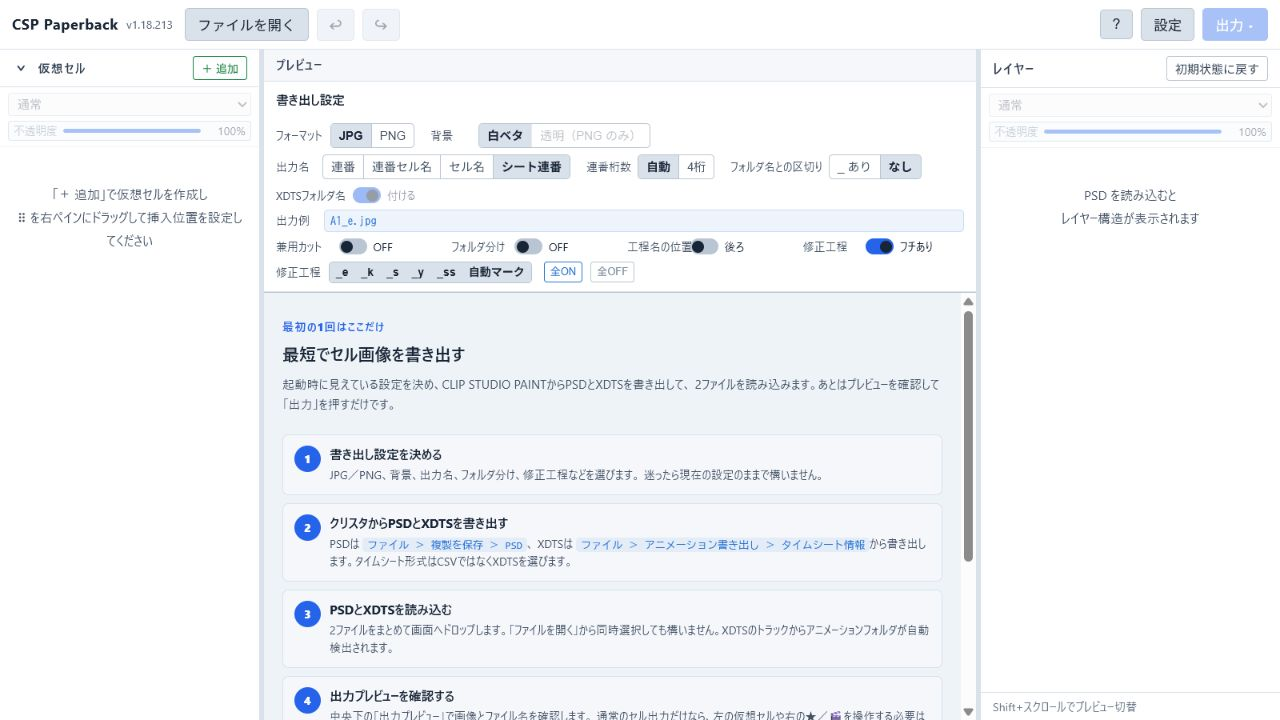
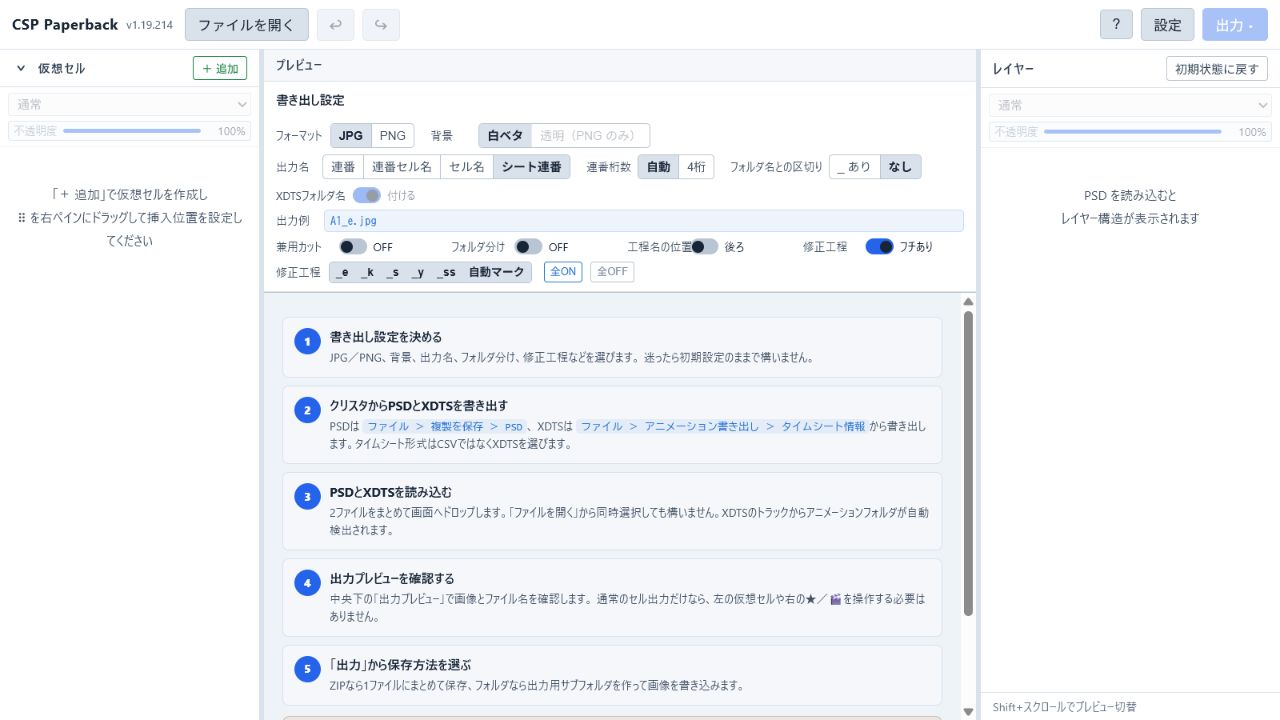
Simplify and highlight help guidance

Changed region(s): [[0.2188, 0.4278, 0.75, 1.0], [0.75, 0.7639, 0.7812, 0.8556]]

diff --git a/src/components/help/QuickStartGuide.module.css b/src/components/help/QuickStartGuide.module.css
@@ -11,43 +11,6 @@
   margin: 0 auto;
 }
 
-.hero {
-  margin-bottom: 1.25rem;
-}
-
-.eyebrow {
-  margin-bottom: 0.35rem;
-  color: var(--color-accent);
-  font-size: 0.72rem;
-  font-weight: 800;
-  letter-spacing: 0.08em;
-  text-transform: uppercase;
-}
-
-.title {
-  margin: 0;
-  color: var(--color-text-primary);
-  font-size: 1.55rem;
-  line-height: 1.3;
-}
-
-.startup .title {
-  font-size: 1.05rem;
-}
-
-.lead {
-  max-width: 46rem;
-  margin: 0.6rem 0 0;
-  color: var(--color-text-muted);
-  font-size: 0.9rem;
-  line-height: 1.75;
-}
-
-.startup .lead {
-  font-size: 0.76rem;
-  line-height: 1.65;
-}
-
 .route {
   display: grid;
   gap: 0.75rem;
@@ -210,14 +173,6 @@
 @media (pointer: coarse) and (max-width: 1024px) {
   .help {
     max-width: none;
-  }
-
-  .title {
-    font-size: 1.25rem;
-  }
-
-  .lead {
-    font-size: 0.84rem;
   }
 
   .step {

diff --git a/src/components/help/HelpFigure.tsx b/src/components/help/HelpFigure.tsx
@@ -1,13 +1,28 @@
 import styles from '../HelpDialog.module.css'
 
+interface HelpHighlight {
+  label: string
+  x: number
+  y: number
+  width: number
+  height: number
+}
+
 interface HelpFigureProps {
   src: string
   alt: string
   caption: string
   compact?: boolean
+  highlights: HelpHighlight[]
 }
 
-export function HelpFigure({ src, alt, caption, compact = false }: HelpFigureProps) {
+export function HelpFigure({
+  src,
+  alt,
+  caption,
+  compact = false,
+  highlights,
+}: HelpFigureProps) {
   return (
     <figure className={`${styles.figure} ${compact ? styles.figureCompact : ''}`}>
       <div className={styles.figureFrame}>
@@ -17,6 +32,22 @@ export function HelpFigure({ src, alt, caption, compact = false }: HelpFigurePro
           alt={alt}
           loading="lazy"
         />
+        {highlights.map(highlight => (
+          <span
+            key={highlight.label}
+            className={styles.figureHighlight}
+            data-help-highlight={highlight.label}
+            style={{
+              left: `${highlight.x}%`,
+              top: `${highlight.y}%`,
+              width: `${highlight.width}%`,
+              height: `${highlight.height}%`,
+            }}
+            aria-hidden="true"
+          >
+            <span className={styles.figureHighlightLabel}>{highlight.label}</span>
+          </span>
+        ))}
       </div>
       <figcaption className={styles.figureCaption}>{caption}</figcaption>
     </figure>

diff --git a/src/components/HelpDialog.module.css b/src/components/HelpDialog.module.css
@@ -286,6 +286,7 @@
 }
 
 .figureFrame {
+  position: relative;
   overflow: hidden;
   border: 1px solid var(--color-border-strong);
   border-radius: 8px;
@@ -298,6 +299,33 @@
   width: 100%;
   height: auto;
   background: var(--color-bg-app);
+}
+
+.figureHighlight {
+  position: absolute;
+  box-sizing: border-box;
+  border: 3px solid #e11d48;
+  border-radius: 5px;
+  box-shadow:
+    0 0 0 1px rgba(255, 255, 255, 0.95),
+    0 2px 8px rgba(159, 18, 57, 0.34);
+  pointer-events: none;
+}
+
+.figureHighlightLabel {
+  display: block;
+  width: fit-content;
+  max-width: 100%;
+  padding: 0.18rem 0.42rem 0.2rem;
+  overflow: hidden;
+  border-radius: 0 0 4px 0;
+  background: #e11d48;
+  color: #fff;
+  font-size: clamp(0.55rem, 1.25vw, 0.72rem);
+  font-weight: 700;
+  line-height: 1.1;
+  text-overflow: ellipsis;
+  white-space: nowrap;
 }
 
 .figureCaption {

diff --git a/src/components/help/QuickStartGuide.tsx b/src/components/help/QuickStartGuide.tsx
@@ -43,15 +43,6 @@ export function QuickStartGuide({
 
   return (
     <div className={`${styles.guide} ${styles[variant]}`}>
-      <div className={styles.hero}>
-        <div className={styles.eyebrow}>最初の1回はここだけ</div>
-        <h1 className={styles.title}>最短でセル画像を書き出す</h1>
-        <p className={styles.lead}>
-          起動時に見えている設定を決め、CLIP STUDIO PAINTからPSDとXDTSを書き出して、
-          2ファイルを読み込みます。あとはプレビューを確認して「出力」を押すだけです。
-        </p>
-      </div>
-
       <div className={styles.route}>
         <Step
           number={1}
@@ -60,12 +51,15 @@ export function QuickStartGuide({
             <HelpFigure
               src="startup-guide.png"
               alt="起動直後の中央ペイン上部にある書き出し設定"
-              caption="起動直後の中央ペイン上部。ここで選んだ設定は次回起動とデスクトップ版の自動書き出しにも引き継がれます。"
+              caption="赤枠が中央ペイン上部の書き出し設定です。ここで選んだ内容は次回起動とデスクトップ版の自動書き出しにも引き継がれます。"
+              highlights={[
+                { label: '書き出し設定', x: 20.7, y: 10.8, width: 55.5, height: 30.3 },
+              ]}
             />
           ) : undefined}
         >
           JPG／PNG、背景、出力名、フォルダ分け、修正工程などを選びます。
-          迷ったら現在の設定のままで構いません。
+          迷ったら初期設定のままで構いません。
         </Step>
 
         <Step number={2} title="クリスタからPSDとXDTSを書き出す">
@@ -88,7 +82,10 @@ export function QuickStartGuide({
             <HelpFigure
               src="loaded-overview.png"
               alt="サンプルPSDとXDTSを読み込んだCSP Paperbackの3ペイン画面"
-              caption="読込後の画面。中央下の出力プレビューで、出力名と合成結果を確認できます。"
+              caption="読込後の画面。赤枠の出力プレビューで、出力名と合成結果を確認できます。"
+              highlights={[
+                { label: '出力プレビュー', x: 20.5, y: 73.7, width: 56, height: 25.8 },
+              ]}
             />
           ) : undefined}
         >
@@ -103,8 +100,11 @@ export function QuickStartGuide({
             <HelpFigure
               src="output-menu.png"
               alt="ツールバーの出力メニューでZIPとフォルダを選べる状態"
-              caption="右上の「出力」からZIPまたはフォルダを選びます。環境によってはZIPのみ表示されます。"
+              caption="赤枠の「出力」からZIPまたはフォルダを選びます。環境によってはZIPのみ表示されます。"
               compact
+              highlights={[
+                { label: '出力メニュー', x: 89.5, y: 1, width: 9.5, height: 17.5 },
+              ]}
             />
           ) : undefined}
         >

diff --git a/src/components/help/FeatureGuide.tsx b/src/components/help/FeatureGuide.tsx
@@ -35,6 +35,11 @@ export function FeatureGuide() {
           src="loaded-overview.png"
           alt="CSP Paperbackのツールバーと3ペイン"
           caption="左が仮想セル、中央がプレビューと書き出し設定、右がPSDのレイヤーツリーです。"
+          highlights={[
+            { label: '仮想セル', x: 0.6, y: 20.8, width: 19, height: 32.5 },
+            { label: 'プレビュー', x: 20.5, y: 6.7, width: 56, height: 92.5 },
+            { label: 'レイヤー', x: 76.6, y: 6.7, width: 23.1, height: 92.5 },
+          ]}
         />
 
         <div className={styles.cardGrid}>
@@ -96,6 +101,10 @@ export function FeatureGuide() {
           src="loaded-overview.png"
           alt="中央ペインのナビゲーターと出力プレビュー"
           caption="上はPSD全体の確認、下は選択中の出力画像です。同じ拡大・移動操作で細部を確認できます。"
+          highlights={[
+            { label: '全体（ナビゲーター）', x: 20.5, y: 6.7, width: 56, height: 42.4 },
+            { label: '出力プレビュー', x: 20.5, y: 73.7, width: 56, height: 25.8 },
+          ]}
         />
 
         <ul className={styles.list}>
@@ -117,6 +126,9 @@ export function FeatureGuide() {
           src="loaded-overview.png"
           alt="中央ペインの書き出し設定"
           caption="頻繁に使う設定は中央ペインへ集約されています。変更すると出力例とプレビューへすぐ反映されます。"
+          highlights={[
+            { label: '書き出し設定', x: 20.5, y: 49, width: 56, height: 24.8 },
+          ]}
         />
 
         <div className={styles.tableWrap}>
@@ -152,6 +164,9 @@ export function FeatureGuide() {
           alt="出力メニューのZIPとフォルダ"
           caption="出力先を選ぶと、現在の書き出し設定ですべての対象画像を生成します。"
           compact
+          highlights={[
+            { label: '出力メニュー', x: 89.5, y: 1, width: 9.5, height: 17.5 },
+          ]}
         />
 
         <div className={styles.compareGrid}>
@@ -179,6 +194,9 @@ export function FeatureGuide() {
           alt="右ペインのレイヤーツリー"
           caption="目、フォルダ展開、★、🎬をレイヤーごとに操作できます。選択した対象は中央の出力プレビューへ連動します。"
           compact
+          highlights={[
+            { label: 'レイヤー', x: 76.6, y: 6.7, width: 23.1, height: 92.5 },
+          ]}
         />
 
         <div className={styles.iconList}>
@@ -289,6 +307,9 @@ export function FeatureGuide() {
           alt="左ペインの仮想セル"
           caption="メンバー、挿入位置、仮想セル内だけの表示・合成設定を左ペインで管理します。"
           compact
+          highlights={[
+            { label: '仮想セル', x: 0.6, y: 20.8, width: 19, height: 32.5 },
+          ]}
         />
 
         <ol className={styles.numberedList}>
@@ -311,6 +332,9 @@ export function FeatureGuide() {
           src="settings-dialog.png"
           alt="書き出し詳細設定ダイアログ"
           caption="テーマ、工程フォルダ、自動マーク、除外リスト、設定共有を1か所で管理します。"
+          highlights={[
+            { label: '詳細設定', x: 19.5, y: 7.5, width: 61.1, height: 85 },
+          ]}
         />
 
         <div className={styles.cardGrid}>

diff --git a/src/test/components/help-dialog.test.tsx b/src/test/components/help-dialog.test.tsx
@@ -9,7 +9,8 @@ describe('HelpDialog information architecture', () => {
     render(<HelpDialog onClose={vi.fn()} />)
 
     expect(screen.getByRole('tab', { name: /最短ガイド/ })).toHaveAttribute('aria-selected', 'true')
-    expect(screen.getByRole('heading', { name: '最短でセル画像を書き出す' })).toBeInTheDocument()
+    expect(screen.queryByText('最初の1回はここだけ')).not.toBeInTheDocument()
+    expect(screen.queryByText('起動時に見えている設定')).not.toBeInTheDocument()
 
     const route = [
       '書き出し設定を決める',
@@ -19,6 +20,9 @@ describe('HelpDialog information architecture', () => {
       '「出力」から保存方法を選ぶ',
     ]
     for (const title of route) expect(screen.getByText(title)).toBeInTheDocument()
+    expect(document.querySelector('[data-help-highlight="書き出し設定"]')).toBeInTheDocument()
+    expect(document.querySelector('[data-help-highlight="出力プレビュー"]')).toBeInTheDocument()
+    expect(document.querySelector('[data-help-highlight="出力メニュー"]')).toBeInTheDocument()
 
     expect(screen.queryByText('CSPアニメーションセル出力の課題')).not.toBeInTheDocument()
   })
@@ -37,6 +41,7 @@ describe('HelpDialog information architecture', () => {
     expect(text).toContain('出力する修正工程')
     expect(text).toContain('仮想セル')
     expect(text).toContain('デスクトップ版とモバイル')
+    expect(document.querySelectorAll('[data-help-highlight]').length).toBeGreaterThanOrEqual(10)
   })
 
   it('背景説明とメンタルモデルを操作手順から分離する', () => {

diff --git a/src/test/components/preview-panel-startup.test.tsx b/src/test/components/preview-panel-startup.test.tsx
@@ -55,9 +55,10 @@ describe('PreviewPanel startup layout', () => {
     expect(within(settings).queryByText(/クイック書き出し/)).not.toBeInTheDocument()
     expect(within(settings).getByRole('switch', { name: 'フォルダ分け' }))
       .toHaveAttribute('aria-checked', 'true')
-    expect(within(guide).getByRole('heading', { name: '最短でセル画像を書き出す' })).toBeInTheDocument()
     expect(within(guide).getByText('書き出し設定を決める')).toBeInTheDocument()
     expect(within(guide).getByText('「出力」から保存方法を選ぶ')).toBeInTheDocument()
+    expect(within(guide).queryByText('最初の1回はここだけ')).not.toBeInTheDocument()
+    expect(within(guide).queryByText('起動時に見えている設定')).not.toBeInTheDocument()
     expect(within(guide).queryByText('サンプル作画テンプレート(.clip)')).not.toBeInTheDocument()
   })
 

diff --git a/src/components/HelpDialog.tsx b/src/components/HelpDialog.tsx
@@ -12,7 +12,7 @@ interface HelpDialogProps {
 type HelpTab = 'quick' | 'features' | 'about'
 
 const TABS: Array<{ id: HelpTab; label: string; description: string }> = [
-  { id: 'quick', label: '最短ガイド', description: '最初の1回を出力する' },
+  { id: 'quick', label: '最短ガイド', description: '出力までの5ステップ' },
   { id: 'features', label: '機能ガイド', description: 'すべての画面と機能' },
   { id: 'about', label: '考え方', description: 'なぜ作ったか・合成思想' },
 ]